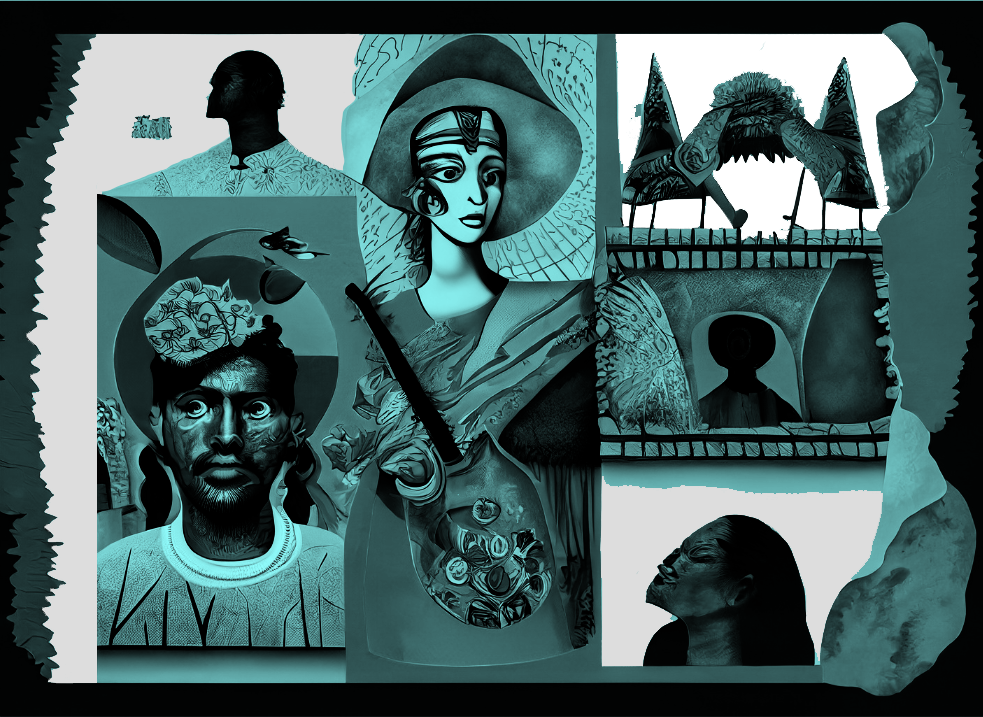
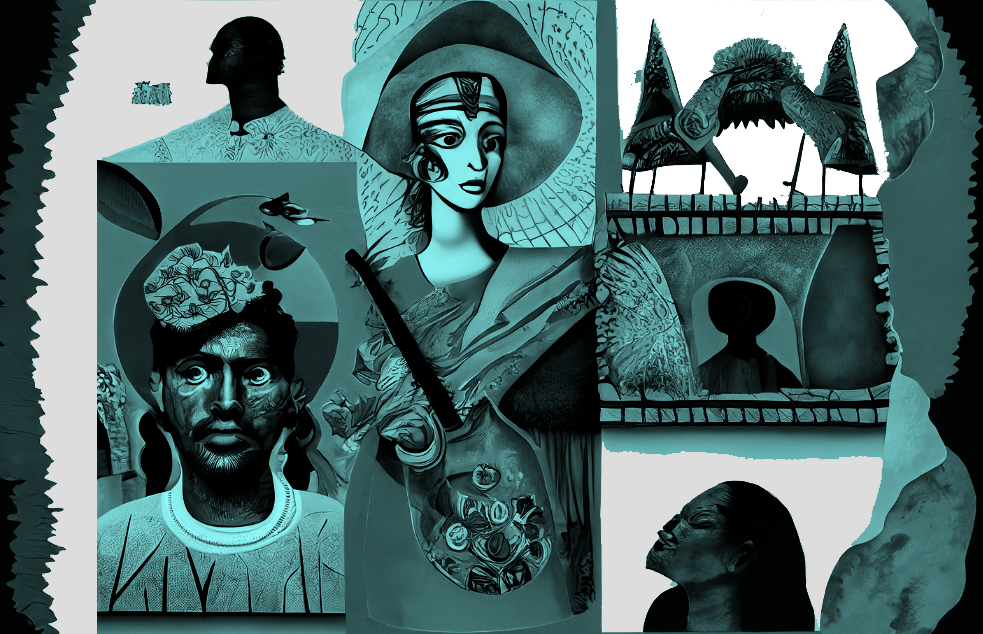
messing around with layout

diff --git a/_includes/header.html b/_includes/header.html
@@ -2,40 +2,42 @@
   {%- assign default_paths = site.pages | map: "path" -%}
   {%- assign page_paths = site.bootstrap.header_pages | default: default_paths -%}
   {%- assign titles_size = site.pages | map: 'title' | join: '' | size -%}
-<nav class="navbar navbar-expand-md navbar-light bg-light shadow fixed-top opacity-75">
-  <div class="container">
-    <div>
-      <a class="h1 navbar-brand" href="{{ "/" | relative_url }}"><img src="/images/logo.png" height="35" style=" position: relative; top: -3px;"></a>
-      <!-- <a class="h1 navbar-brand" href="{{ "/" | relative_url }}">{{ site.title | escape }}</a> -->
-    </div>
-    {%- if titles_size > 0 -%}
-    <button class="navbar-toggler" type="button" data-bs-toggle="collapse" data-bs-target="#navbarSupportedContent" aria-controls="navbarSupportedContent" aria-expanded="false" aria-label="Toggle navigation">
-      <span class="navbar-toggler-icon"></span>
-    </button>
-    <div class="collapse navbar-collapse" id="navbarSupportedContent">
-      <ul class="navbar-nav ms-auto mb-2 mb-lg-0">
-        {%- for path in page_paths -%}
-        {%- assign my_page = site.pages | where: "path", path | first -%}
-        {%- if my_page.title -%}
-        <li class="nav-item">
-          <a class="nav-link {% if page.url == my_page.url %} active" aria-current="page{%- endif -%}" href="{{ my_page.url | relative_url }}">{{ my_page.title | escape }}</a>
-        </li>
-        {%- endif -%}
-        {%- endfor -%}
-      </ul>
-    </div>
-    {%- endif -%}
-    
-  </div>
-</nav>
 
-<header class="masthead">
+<header class="masthead" style="background-image: url('/images/{{page.banner}}');">
+  <nav class="navbar navbar-expand-md navbar-light bg-light shadow fixed-top opacity-75">
+    <div class="container">
+      <div>
+        <a class="h1 navbar-brand" href="{{ '/' | relative_url }}"><img src="/images/logo.png" height="35" style=" position: relative; top: -3px;"></a>
+        <!-- <a class="h1 navbar-brand" href="{{ "/" | relative_url }}">{{ site.title | escape }}</a> -->
+      </div>
+      {%- if titles_size > 0 -%}
+      <button class="navbar-toggler" type="button" data-bs-toggle="collapse" data-bs-target="#navbarSupportedContent" aria-controls="navbarSupportedContent" aria-expanded="false" aria-label="Toggle navigation">
+        <span class="navbar-toggler-icon"></span>
+      </button>
+      <div class="collapse navbar-collapse" id="navbarSupportedContent">
+        <ul class="navbar-nav ms-auto mb-2 mb-lg-0">
+          {%- for path in page_paths -%}
+          {%- assign my_page = site.pages | where: "path", path | first -%}
+          {%- if my_page.title -%}
+          <li class="nav-item">
+            <a class="nav-link {% if page.url == my_page.url %} active" aria-current="page{%- endif -%}" href="{{ my_page.url | relative_url }}">{{ my_page.title | escape }}</a>
+          </li>
+          {%- endif -%}
+          {%- endfor -%}
+        </ul>
+      </div>
+      {%- endif -%}
+      
+    </div>
+  </nav>
+
   <div class="container h-100">
+
     <div class="row h-100 align-items-center">
       <div class="col-12 text-center text-white">
         <h1 class="fw-light display-1" 
         data-mdb-toggle="animation" data-mdb-animation-reset="true" data-mdb-animation="fade-in-left"
-        data-mdb-animation-start="onLoad">The Creative Forum</h1>
+        data-mdb-animation-start="onLoad">{{page.title}}</h1>
         <p class="lead">of the Yale Department of Spanish & Portuguese</p>
       </div>
     </div>

diff --git a/index.html b/index.html
@@ -1,6 +1,7 @@
 ---
 layout: default
 title: "Home"
+banner: homepage.png
 ---
 
 <div class="row justify-content-center">
